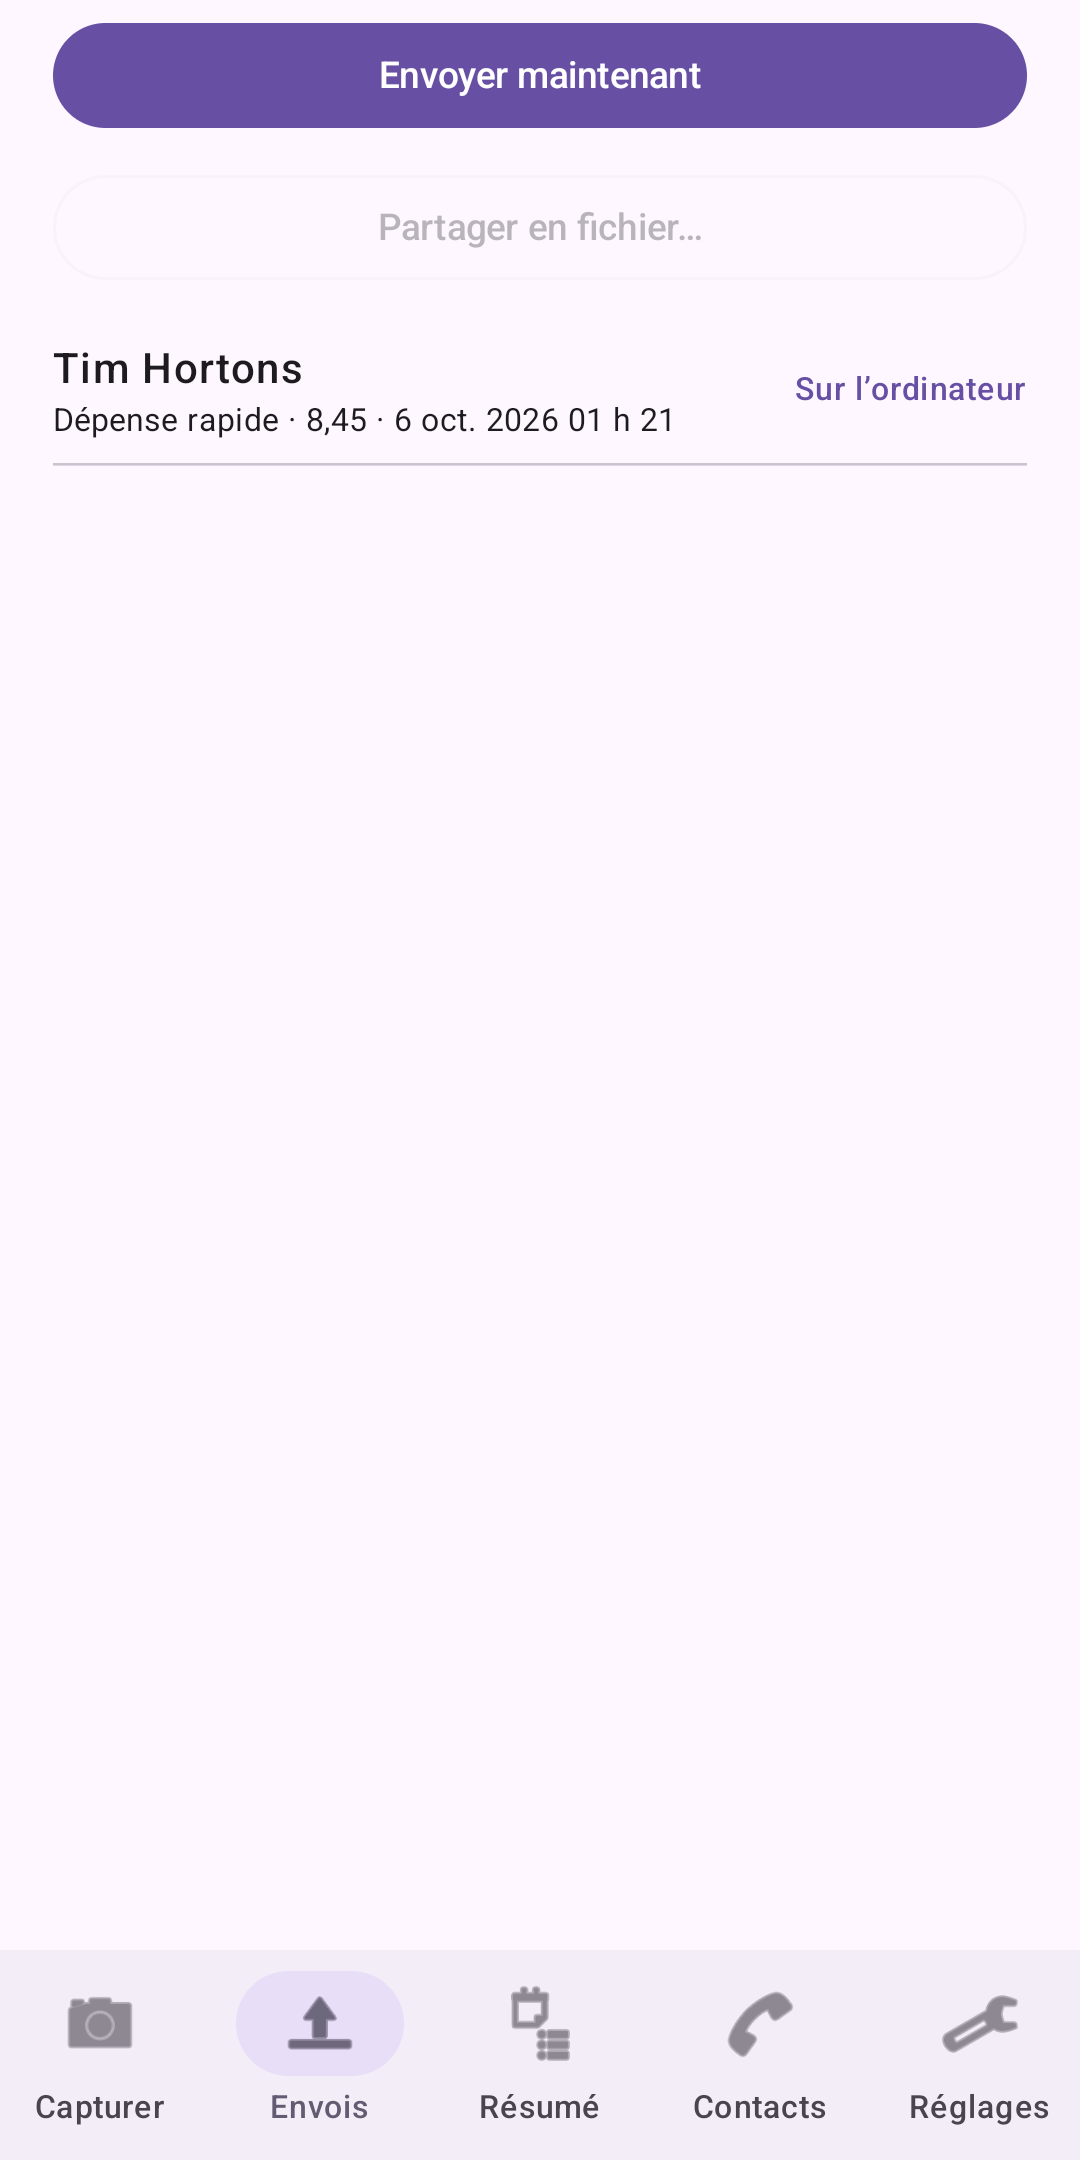
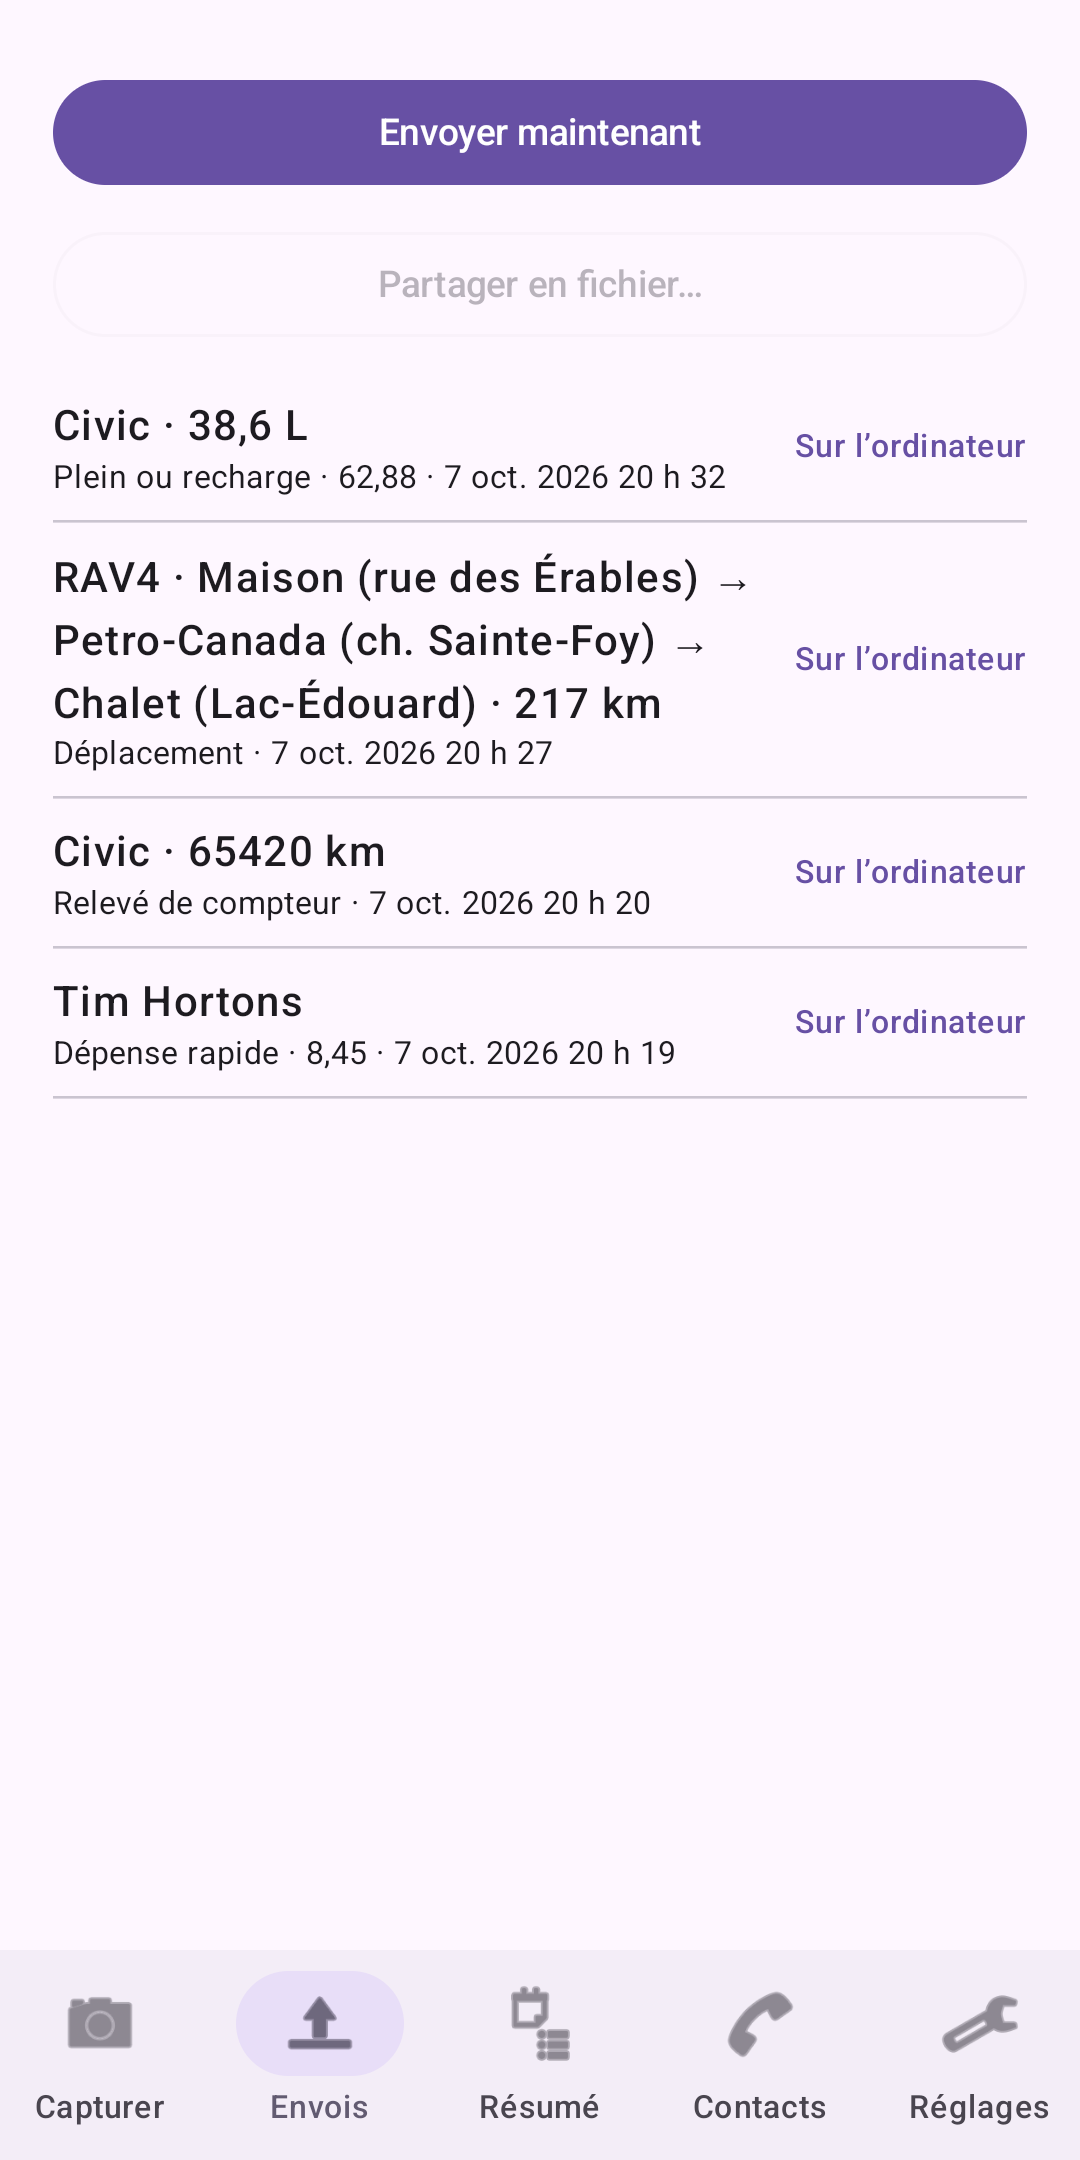
Store texts, release notes and pictures brought up to date for release
Store listings (Microsoft Store and Google Play, EN and FR) and the 1.0.0
release notes now cover bills Home or Business with statements, account
numbers, utility readings, payments in part and instalments; documents page
by page with zoom; itemize by hand; trips with stops, breaks, notes, photos,
addresses and stations nearby (opt-in); the phone's agenda, calendar sync both
ways, lock time and language; the Help menu and Walk-Me guides.

Pictures retaken with the current app: the 8 desktop store pictures per
language (All bills replaces Contacts as the sixth), the website's desktop and
phone pictures, 6 phone store pictures per language (agenda replaces Coming
up; trip under way added) and the manual's phone pictures, with two new ones
(agenda, trip under way) in both languages.

Phone: the fuel form's two links wrap (FlowRow) instead of squeezing
"Stations à proximité" letter by letter in French.

diff --git a/docs/releases/1.0.0.en.md b/docs/releases/1.0.0.en.md
@@ -9,20 +9,29 @@ The first public release of RANN's Roost, a household finance app for Canada on 
 - Reconcile each statement to the cent: automatic matching, one line matched to several transactions or the reverse, and a saved report.
 - Categories, rules, splits, transfers, named templates, changes to many transactions at once, and export of chosen transactions to CSV, QIF or OFX.
 - Bills and subscriptions with reminders, budgets with rollover, savings goals inside an account, a cash flow forecast, and alerts for a low balance, a card near its limit or unusual activity.
+- Each bill is Home or Business, with a category and subcategory from built-in lists you can edit, its account number with the company (masked), and every statement received with its number, dates, amount and scan. A Business bill counts as its owner's business expense, with its sales taxes, in the year-end package.
+- A utility bill can be linked to its meter: each statement's readings go to the meter. A bill captured on the phone that matches no bill offers to create one, filled in from what was read.
+- Pay a bill in part: the rest stays due, with reminders, until it is paid in full. Property taxes and other bills paid in instalments on set dates, rolled over to next year as estimates until the new statement comes.
+- Every list with columns has a heading row, the column of buttons headed Actions; on Bills: due date, bill, amount due, to pay, outstanding.
 
 ## Documents and AI reading
 
 - Receipts, bills and statements read on your computer (text recognition runs locally), from the phone, from saved emails or from a watched folder, kept in an encrypted vault and matched to their transactions. The app learns each store's name, kind and category from your corrections.
 - Optional AI reading with your own Anthropic account and key: receipts split by item with their sales taxes, bank, card and investment statements and trade confirmations read into the books. Off until you turn it on; you see each page, can hide parts or leave pages out, and nothing is sent until you choose to send it. A usage log shows each reading.
+- Documents shown page by page, with zoom in, zoom out and fit.
+- Itemize a receipt or invoice by hand (item, amount, category, sales tax) into the transaction's split lines, without AI reading. Bills read on the computer or by AI fill in the account number, statement number, dates, amount, meter readings and a tax bill's instalments when printed.
 
 ## Phone
 
 - RANN's Roost Mobile photographs receipts and bills (edges found, pages straightened, text read on the phone), takes shared PDFs, photos and email text, quick expenses, voice notes, odometer and hour readings, and new contacts.
 - Captures wait on the phone, encrypted, and go to your computer over your home Wi-Fi, or through a cloud folder or email of your own, sealed end to end. Nothing passes through RANN.
 - At a glance: balances, this month's budgets with alerts at 80 % and 100 %, bills due, appointments, refills, maintenance and the season's checklist, today's and tomorrow's schedules, and the household's contacts, with reminders.
-- Trips started and ended on the phone (one location fix at each end, never in the background), fuel and charging, utility meters and tanks, hours worked, chores and volunteer hours.
-- Bring the calendars your phone already shows to the computer, each one private, busy only or shared.
-- Locked by a PIN, with fingerprint or face unlock if you wish. Every household member can pair their own phone.
+- An agenda of the coming 60 days, opened from the calendar icon on the Capture and Summary tabs, with a month view: events, work and school hours, bills, refills, maintenance, seasonal tasks, renewals and fuel orders, beside the phone's own calendars.
+- Trips started and ended on the phone, with a planned destination, several stops, rest breaks, and notes (typed, dictated or voice) and photos on the way. A location fix at the start, each stop, each break and the end, never in the background, with an address from a saved place or typed.
+- Opt-in, off by default: an address looked up from a position through Android's geocoder, and fuel stations and EV chargers nearby from OpenStreetMap. A station can also be added by hand.
+- Fuel and charging, utility meters and tanks, hours worked, chores and volunteer hours.
+- Bring the calendars your phone already shows to the computer, each one private, busy only or shared; or both ways, which also writes the household's appointments, hours and bills into a calendar you choose (a phone-only RANN's Roost calendar or one of your accounts'). Medical appointments show only as "Health appointment", bills never show their amount.
+- Locked by a PIN after the time you choose (at once, or after 1, 5 or 15 minutes), with fingerprint or face unlock if you wish. English or French as the phone, or as you choose. Every household member can pair their own phone.
 
 ## Investing and borrowing
 
@@ -45,7 +54,8 @@ The first public release of RANN's Roost, a household finance app for Canada on 
 - Medical and dental plans with coordination of benefits between spouses, claims from submission to payment with their deadlines, health records, medications and refills, and a printable health summary.
 - The home, appliances, vehicles, RVs, boats, pools and yards: warranties with claim logs, insurance policies and claims, maintenance schedules by time, use or season, a printable seasonal checklist, contractors, home projects, energy upgrades with rebates, and cost of ownership.
 - Vehicles: service and fuel logs, consumption, a CRA logbook, km per province, inspection reminders and their share of insurance premiums.
-- Utilities (meters with unusual months flagged, propane and oil tanks), pets, a trip log and medical travel.
+- Utilities (electricity, gas and water meters with unusual months flagged, propane and oil tanks with a reminder to order), pets, a trip log with each trip's stops and breaks, and medical travel.
+- A seasonal checklist for each change of season, across the home, cottage, vehicles, pool and yard, ticked off on the computer or the phone and recorded in the service log.
 - Family money: shared expenses and settling up, allowances and paid chores; side income with invoices, hours worked and rental properties; card rewards; volunteer hours.
 - Contacts: the doctors, banks, advisors and contractors you deal with, linked to the records they serve.
 - An emergency and estate summary (where the will and papers are, who to call, every account and policy), saved as a protected PDF to hand over.
@@ -55,7 +65,7 @@ The first public release of RANN's Roost, a household finance app for Canada on 
 - Appointments and events with reminders on the computer and the phone, the same repeat patterns as bills, and bills, renewals, refills and maintenance shown with them.
 - Agenda, day, week, month and year views, shown or hidden per kind and person.
 - Work and school schedules (weekly or rotations, night shifts, holidays and exceptions) and children's activities with drivers each way and their cost.
-- Calendars from the phone and one-time .ics imports.
+- Calendars from each person's phone, each kept private, shown as busy only or shared, and one-time .ics imports.
 
 ## Reports
 
@@ -68,6 +78,8 @@ The first public release of RANN's Roost, a household finance app for Canada on 
 - Several users, each with their own password and role, password rules set by an administrator, private account groups other users cannot open, an activity log and automatic locking.
 - No RANN account, no RANN server, no advertising, no analytics. The app contacts the internet only for the Bank of Canada rates when you use another currency, and for what you turn on (prices, AI reading, update checks). Privacy policy: https://www.rann.ca/rann-apps/rann-roost/privacy-policy-en
 - A user manual with pictures in its own window, help for every screen (F1), a getting started guide, keyboard use, dark mode and text sizes.
+- A Help menu with the manual, the screen's help, Walk-Me and About. About shows the version, what's new, the privacy summary, the licence and third-party notices, and copies details for support (no personal data).
+- Walk-Me: step-by-step guides for common tasks, from creating the household, importing and reconciling to bills, property taxes, the phone, trips, registered plans and the year-end tax package. A guide sits at the side of the window, outlines the control to use and opens the right screen.
 
 ## Before you install
 
@@ -79,7 +91,7 @@ The first public release of RANN's Roost, a household finance app for Canada on 
 ## Known limits
 
 - RANN's Roost does not connect to your bank: you import the statements your bank provides.
-- Receipt line items and reading statements from PDFs need AI reading; on-computer reading finds the store, date, amounts and taxes.
+- Reading receipt line items and statements from PDFs automatically needs AI reading; on-computer reading finds the store, date, amounts and taxes, and line items can be typed with Itemize.
 - Access is set per account group, not per account: an account that needs its own access goes in its own group. Members' imports need no administrator approval.
 - Windows Hello unlock comes after 1.0; a password locks the household.
 - The year in review compares with one previous year. The year in review, foreign exchange, investment income, budget and reconciliation reports cannot be narrowed to chosen accounts.

diff --git a/tools/dev/README.md b/tools/dev/README.md
@@ -26,9 +26,9 @@ The manual shows pictures of the app (format: `docs/manual-format.md`). Retake t
 - Desktop: `./gradlew :app:desktop:manualScreenshots -Plang=en`, then `-Plang=fr`. It builds the sample household (Ontario in English, Quebec in French) and draws each screen, tab and dialog in the list in `app/desktop/src/screenshots/kotlin/.../ManualScreenshots.kt` offscreen, at 1280 x 860 in light colours, with the Compose test library: no window opens, nothing is clicked on the real screen, and nothing else on the computer can appear. It writes `core/i18n/src/main/resources/hfm/manual/<lang>/images/*.png` (about two minutes). `-Pshot=bills,taxes-estimate` retakes only those. Then the dark twins: the same task with `-Ptheme=dark` (EN and FR) draws the same pictures in the app's dark colours into `images/dark/` (all but `display-dark`, dark already); the manual window shows them when the app's colours are dark. `ManualTest` fails when a desktop picture has no dark twin, so retake a picture in both colours (`-Pshot=` works with `-Ptheme=dark` too). To add a picture, add a `Shot` to the list (a screen, then `click(label)` for a tab or button), run the task, and put a picture line in both languages' chapters; `ManualTest` fails on a file no chapter shows.
 - So the pictures show nothing of this computer, the task uses a made-up network address on the Phones screen and a made-up `APPDATA` on the AI screen, keeps settings in memory, and puts the sample household in `%PUBLIC%\Documents\RANN's Roost` (deleted afterwards), so the Backups screen's folder names no user.
 - Check a sample of the new pictures by eye before committing (English, then French): the right screen, the sample data, nothing private.
-- Phone (`phone-*.png`): start the emulator (`pixel_7_-_api_36_0`), install the GitHub debug APK, clear the app (`adb shell pm clear ca.ranns.roost.mobile`) and set its language (`adb shell cmd locale set-app-locales ca.ranns.roost.mobile --locales en-CA`, or `fr-CA`). Run `./gradlew :app:desktop:manualPhoneHost -Plang=en` (or fr) in the background: the sample household listens for phones with no window and writes its pairing text to `app/desktop/build/phone-invitation.txt`. Choose the PIN 1234 on the phone, then pair with `adb shell am start -a android.intent.action.VIEW -d "'<that text>'" ca.ranns.roost.mobile`. Enter a quick expense (Tim Hortons, 8.45, Joint chequing, Restaurants) and an odometer reading (Civic, 65420), then for each screen run `python tools/dev/manual_phone.py en <name>` with the names capture, quick-expense, sent, summary, contacts and contact (Dr. Patel; in French Dre Gagnon). It saves only the phone's screen, without the status bar, 540 pixels wide in 256 colours. The phone pictures are light only; the manual shows them in dark mode too. Create `app/desktop/build/phone-stop` to stop the household. Set the app's language back with `--locales ""`.
+- Phone (`phone-*.png`): start the emulator (`pixel_7_-_api_36_0`), install the GitHub debug APK, clear the app (`adb shell pm clear ca.ranns.roost.mobile`) and set its language (`adb shell cmd locale set-app-locales ca.ranns.roost.mobile --locales en-CA`, or `fr-CA`). Run `./gradlew :app:desktop:manualPhoneHost -Plang=en` (or fr) in the background: the sample household listens for phones with no window and writes its pairing text to `app/desktop/build/phone-invitation.txt`. Choose the PIN 1234 on the phone, then pair with `adb shell am start -a android.intent.action.VIEW -d "'<that text>'" ca.ranns.roost.mobile`. Enter a quick expense (Tim Hortons, 8.45, Joint chequing, Restaurants) and an odometer reading (Civic, 65420), then for each screen run `python tools/dev/manual_phone.py en <name>` with the names capture, quick-expense, sent, summary, agenda (the calendar icon), contacts and contact (Dr. Patel; in French Dre Gagnon). For the trip pictures, mock the position at the saved places (`adb -s emulator-5554 emu geo fix <longitude> <latitude>`, coordinates in `DemoTrips.kt`): trip-start (RAV4 from home to the cottage, towing the trailer, two passengers), then a stop at the Petro-Canada and a short break, trip-underway, trip-arrive at the cottage, and fuel (Civic, nearest saved station). Pass `-s emulator-5554` to every adb command, and give manual_phone.py a picture taken that way (third argument) rather than letting it call adb, so no other device can be captured. It saves only the phone's screen, without the status bar, 540 pixels wide in 256 colours. The phone pictures are light only; the manual shows them in dark mode too. Create `app/desktop/build/phone-stop` to stop the household. Set the app's language back with `--locales ""`.
 
 ## The store pictures
 
 - Desktop (Microsoft Store, 1440 x 900): `./gradlew :app:desktop:storeScreenshots -Plang=en`, then `-Plang=fr`. The same offscreen drawing as the manual's pictures, of the list `STORE_SHOTS` in `ManualScreenshots.kt`, in full colour, into `docs/store/screenshots/desktop-<lang>`. The website's desktop pictures come from `-Pweb` added to the same task (dashboard, credit card register, income and expense report, into `app/desktop/build/web-images`), scaled down to 1080 x 675 JPEG for `website/images/desktop-*.jpg`.
-- Phone (Google Play, 1080 x 2160, within Play's 2:1 limit): pair the emulator with `manualPhoneHost` as for the manual's phone pictures, take `adb exec-out screencap -p` from Git Bash and keep 2160 rows below the status bar. The website's phone pictures (`website/images/phone-*.jpg`, 600 x 1200) are these, scaled down.
+- Phone (Google Play, 1080 x 2160, within Play's 2:1 limit): pair the emulator with `manualPhoneHost` as for the manual's phone pictures, take `adb exec-out screencap -p` from Git Bash and keep the app's area from below the status bar (row 120) to the bottom of the tab bar (row 2337), less 57 rows of plain background taken out where the screen has a blank band, so the top bar with the calendar icon and the tab bar both stay whole. Six per language: capture, summary, agenda, contacts, sent (after a quick expense, a reading, a trip and a fill-up) and the trip under way. The website's phone pictures (`website/images/phone-*.jpg`, 600 x 1200) are these, scaled down.

diff --git a/core/i18n/src/main/resources/hfm/manual/fr/phone-app.md b/core/i18n/src/main/resources/hfm/manual/fr/phone-app.md
@@ -330,6 +330,8 @@ Sans lieu enregistré ni nom, le déplacement garde l’adresse, sinon les coord
 
 @index: arrêt; pause; destination
 
+![Un déplacement en cours : un arrêt et une pause jusqu’ici, en route vers le chalet](images/phone-trip-underway.png)
+
 Avec un déplacement en cours, **Déplacement** ouvre **Déplacement en cours** :
 
 - Une carte rappelle le déplacement : le véhicule, quand et d’où il est parti, l’odomètre au départ et l’adresse, la remorque ou la charge, les passagers, puis chaque arrêt (« Arrêt à 10 h 40 : Client à Lévis (22 km) ») et chaque pause (« Pause de 9 h 26 à 9 h 41 »), et combien de notes et de photos ont été envoyées.
@@ -518,6 +520,8 @@ Les chiffres ne changent pas avant le prochain transfert. Touchez **Envoyer main
 L’icône de calendrier en haut à droite des onglets **Capturer** et **Résumé**, ou **Voir l’agenda** sous **À venir** dans l’onglet Résumé, ouvre en un seul endroit tout ce qui s’en vient dans les 60 prochains jours, aujourd’hui compris. Il ne fait qu’afficher : rien ne peut y être modifié. **Retour** ou le geste de retour d’Android ramène à l’onglet d’où vous venez ; toucher un onglet mène à cet onglet. Sous le titre, **De votre ordinateur** donne la date et l’heure du dernier transfert, comme dans le Résumé. Avant le premier transfert, l’agenda affiche **Jumelez votre ordinateur pour voir ici ses rendez-vous, factures et rappels.**
 
 Deux puces en haut choisissent la vue : **Agenda**, jour par jour, ou **Mois**.
+
+![L’agenda jour par jour : la tâche saisonnière, les horaires et une activité d’aujourd’hui](images/phone-agenda.png)
 
 ### Jour par jour {#agenda-days}
 

diff --git a/core/i18n/src/main/resources/hfm/manual/en/phone-app.md b/core/i18n/src/main/resources/hfm/manual/en/phone-app.md
@@ -330,6 +330,8 @@ With no saved place and no name, the trip keeps the address, else the coordinate
 
 @index: stop; break; rest break; destination
 
+![A trip under way: a stop and a break so far, going to the cottage](images/phone-trip-underway.png)
+
 With a trip under way, **Trip** opens **Trip under way**:
 
 - A card recalls the trip: the vehicle, when and where it left, the odometer at the start and the address, the towing or load, the passengers, then each stop ("Stop at 10:40 a.m.: Client in Kanata (22 km)") and break ("Break from 9:26 a.m. to 9:41 a.m."), and how many notes and photos were sent.
@@ -518,6 +520,8 @@ The figures do not change until the next transfer. Tap **Send now** on the Sent 
 The calendar icon at the top right of the **Capture** and **Summary** tabs, or **See the agenda** under **Coming up** on the Summary tab, opens everything coming up in the next 60 days, today included, in one place. It only shows: nothing can be changed here. **Back** or Android's back gesture returns to the tab you came from; tapping any tab goes to that tab. Under the title, **From your computer** gives the date and time of the last transfer, as on the Summary. Before the first transfer, the agenda says **Pair with your computer to see its appointments, bills and reminders here.**
 
 Two chips at the top choose the view: **Agenda**, day by day, or **Month**.
+
+![The agenda, day by day: today's seasonal task, schedules and an activity](images/phone-agenda.png)
 
 ### Day by day {#agenda-days}
 
